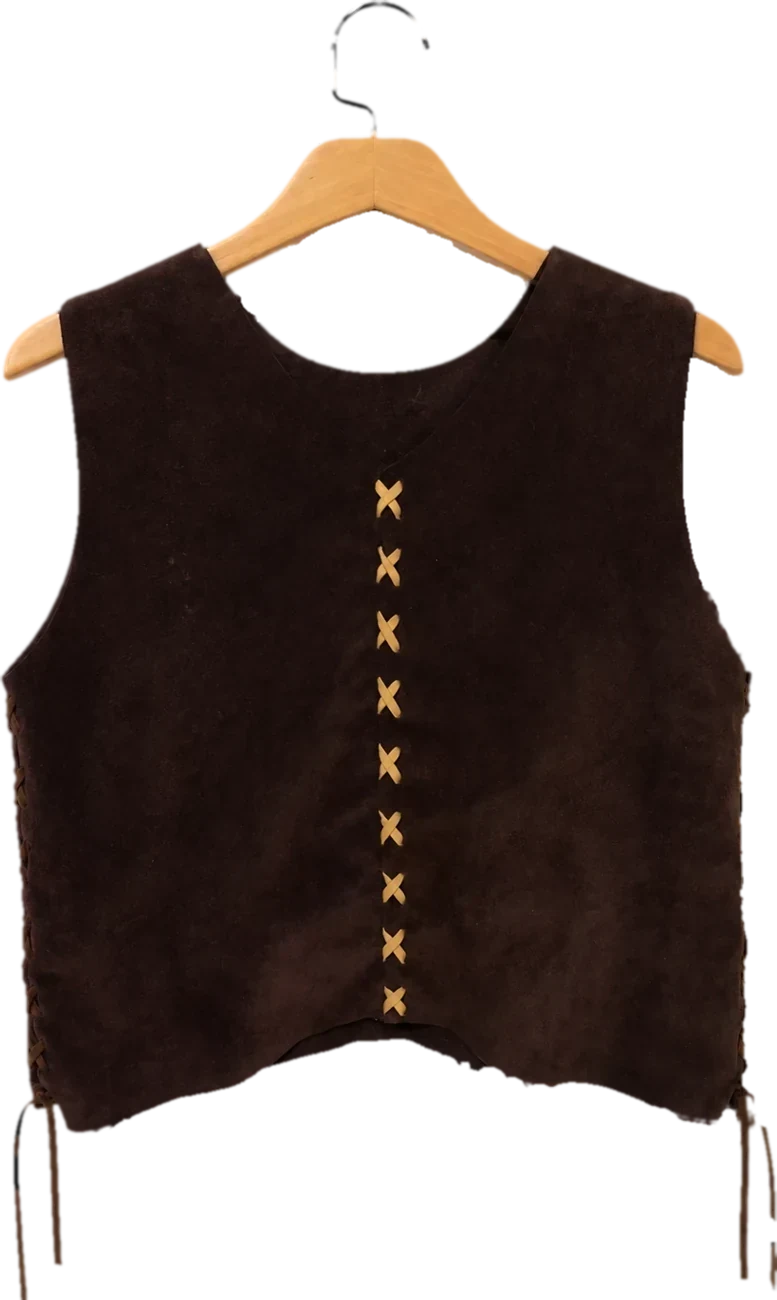
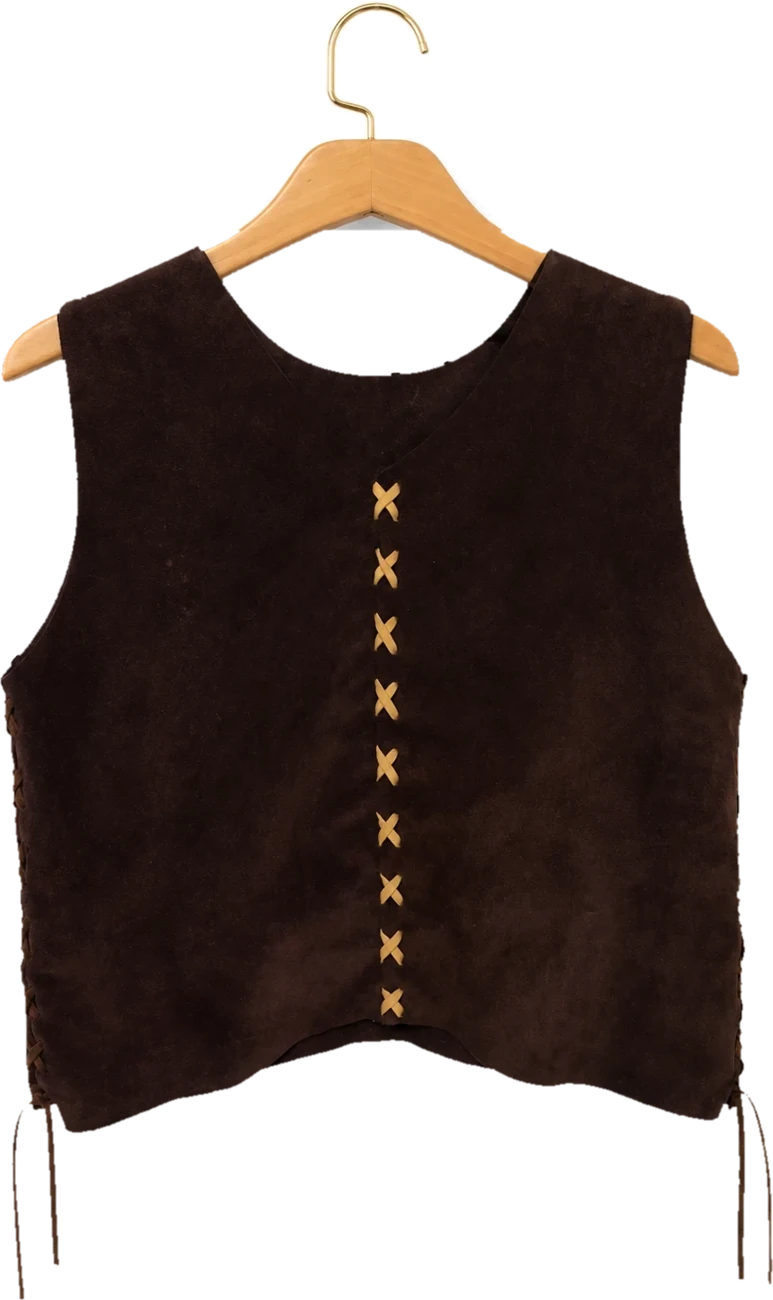
TIRRA: fotos nuevas de Chaleco Cruz y Pechera Cría en el perchero, recorte limpio
Bordes sin halo blanco ni restos de pared, gancho dorado entero y
tachas plateadas del Cruz conservadas.

Claude-Session: https://claude.ai/code/session_01FHVGg6LRu9CuR4S83BY3x6

diff --git a/patria/tirra.js b/patria/tirra.js
@@ -215,8 +215,8 @@
     // hookX / hookXb: dónde está el gancho en cada foto (0 = izquierda, 1 = derecha)
     { id: "col-tierra", img: "images/perch-col-tierra.webp?v=5", hookX: 0.5 },
     { id: "col-ocre",   img: "images/perch-col-ocre.webp?v=5", hookX: 0.5 },
-    { id: "pec-cria",   img: "images/perch-pec-cria.webp?v=5", espalda: "images/perch-pec-cria-b.webp?v=5", hookX: 0.483, hookXb: 0.487 },
-    { id: "cha-cruz",   img: "images/perch-cha-cruz.webp?v=5", espalda: "images/perch-cha-cruz-b.webp?v=5", hookX: 0.502, hookXb: 0.502 },
+    { id: "pec-cria",   img: "images/perch-pec-cria.webp?v=6", espalda: "images/perch-pec-cria-b.webp?v=6", hookX: 0.482, hookXb: 0.486 },
+    { id: "cha-cruz",   img: "images/perch-cha-cruz.webp?v=6", espalda: "images/perch-cha-cruz-b.webp?v=6", hookX: 0.506, hookXb: 0.495 },
     { id: "col-pampa",  img: "images/perch-col-pampa.webp?v=5", hookX: 0.5 },
     { id: "col-greda",  img: "images/perch-col-greda.webp?v=5", hookX: 0.5 }
   ].filter(function (x) { return producto(x.id); });

diff --git a/patria/index.html b/patria/index.html
@@ -280,6 +280,6 @@
 <script src="https://cdnjs.cloudflare.com/ajax/libs/gsap/3.12.5/gsap.min.js"></script>
 <script src="https://cdnjs.cloudflare.com/ajax/libs/gsap/3.12.5/ScrollTrigger.min.js"></script>
 <script src="productos.js?v=25"></script>
-<script src="tirra.js?v=13"></script>
+<script src="tirra.js?v=14"></script>
 </body>
 </html>
